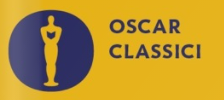
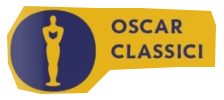
df

diff --git a/file definitivi/stylesheet-mondadori.css b/file definitivi/stylesheet-mondadori.css
@@ -6,7 +6,7 @@
                
 
 .decoration{position: absolute; 
-            content: url(img/mondadori.png);
+            content: url(img/mondadori2.png);
             width: auto;
             height: 5.8%;
             margin-top:4%;
